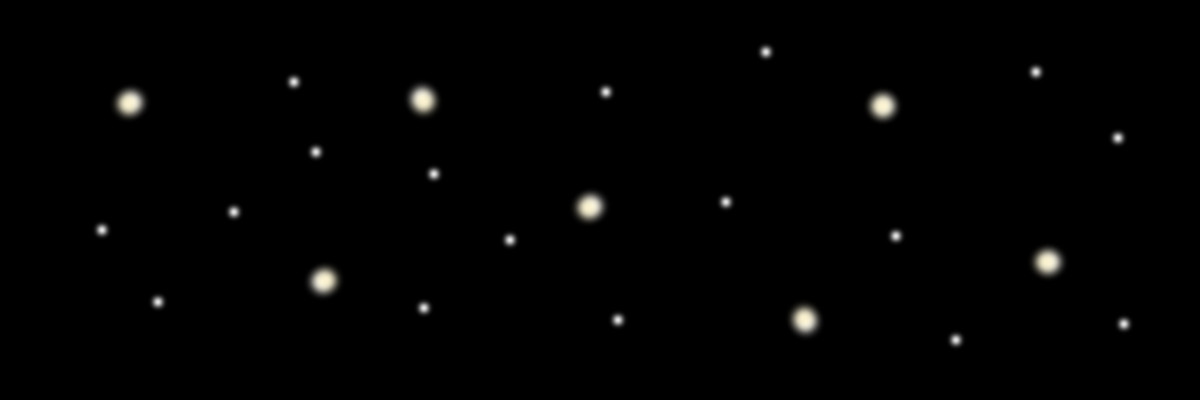
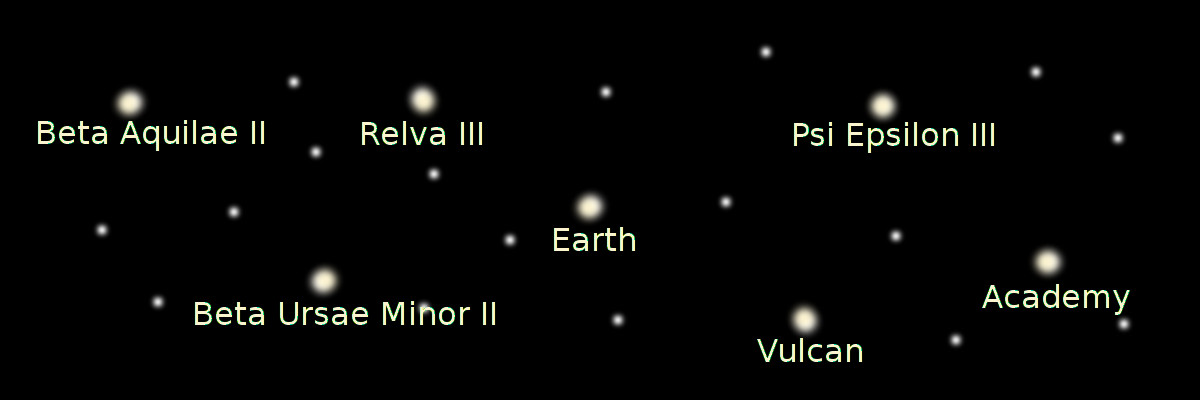
Updated starmap to be just an image

diff --git a/starfleetrecruitment.html b/starfleetrecruitment.html
@@ -48,14 +48,7 @@
 		<section class="science" id="locations">
 			<h3 class="red"><img src="./images/engineering.png">Starfleet Locations</h3>
 			<article class="starmap">
-				<img src="./images/starmap.jpg" alt="star map">
-				<span class="location" id="earth">Earth</span>
-				<span class="location" id="academy">Academy</span>
-				<span class="location" id="beta-aquilae">Beta Aquilae II</span>
-				<span class="location" id="beta-ursae-minor">Beta Ursae Minor II</span>
-				<span class="location" id="relva">Relva III</span>
-				<span class="location" id="psi-epsilon">Psi Episilon III</span>
-				<span class="location" id="vulcan">Vulcan</span>
+				<img src="./images/starmap.jpg" alt="Earth, Academy, Beta Aquilae II, Beta Ursae Minor II, Relva III Psi Episilon III, Vulcan">
 		</article>
 		</section>
 	</main>

diff --git a/styles.less b/styles.less
@@ -23,7 +23,7 @@ nav{
 }
 
 .hero{
-	height: 90vh;
+	height: 100vh;
 	background: url("./images/header.jpg");
 	background-repeat: no-repeat;
 	background-size: cover;
@@ -95,38 +95,6 @@ h3{
 .starmap img{
 	max-width: 100%;
 	height: auto;	
-}
-.location{
-	position: absolute;
-	color: @header-colour;
-}
-#earth{
-	left: 48%;
-	top: 55%;
-}
-#academy{
-	left: 63%;
-	top: 82%;
-}
-#beta-aquilae{
-	left: 10%;
-	top: 29%;
-}
-#beta-ursae-minor{
-	left: 65%;
-	top: 29%;
-}
-#relva{
-	left: 82%;
-	top: 69%;
-}
-#psi-epsilon{
-	left: 25%;
-	top: 74%;
-}
-#vulcan{
-	left: 34%;
-	top: 29%;
 }
 footer{
 	background-color: black;

diff --git a/styles.min.css b/styles.min.css
@@ -18,7 +18,7 @@ nav {
   right: 0;
 }
 .hero {
-  height: 90vh;
+  height: 100vh;
   background: url("./images/header.jpg");
   background-repeat: no-repeat;
   background-size: cover;
